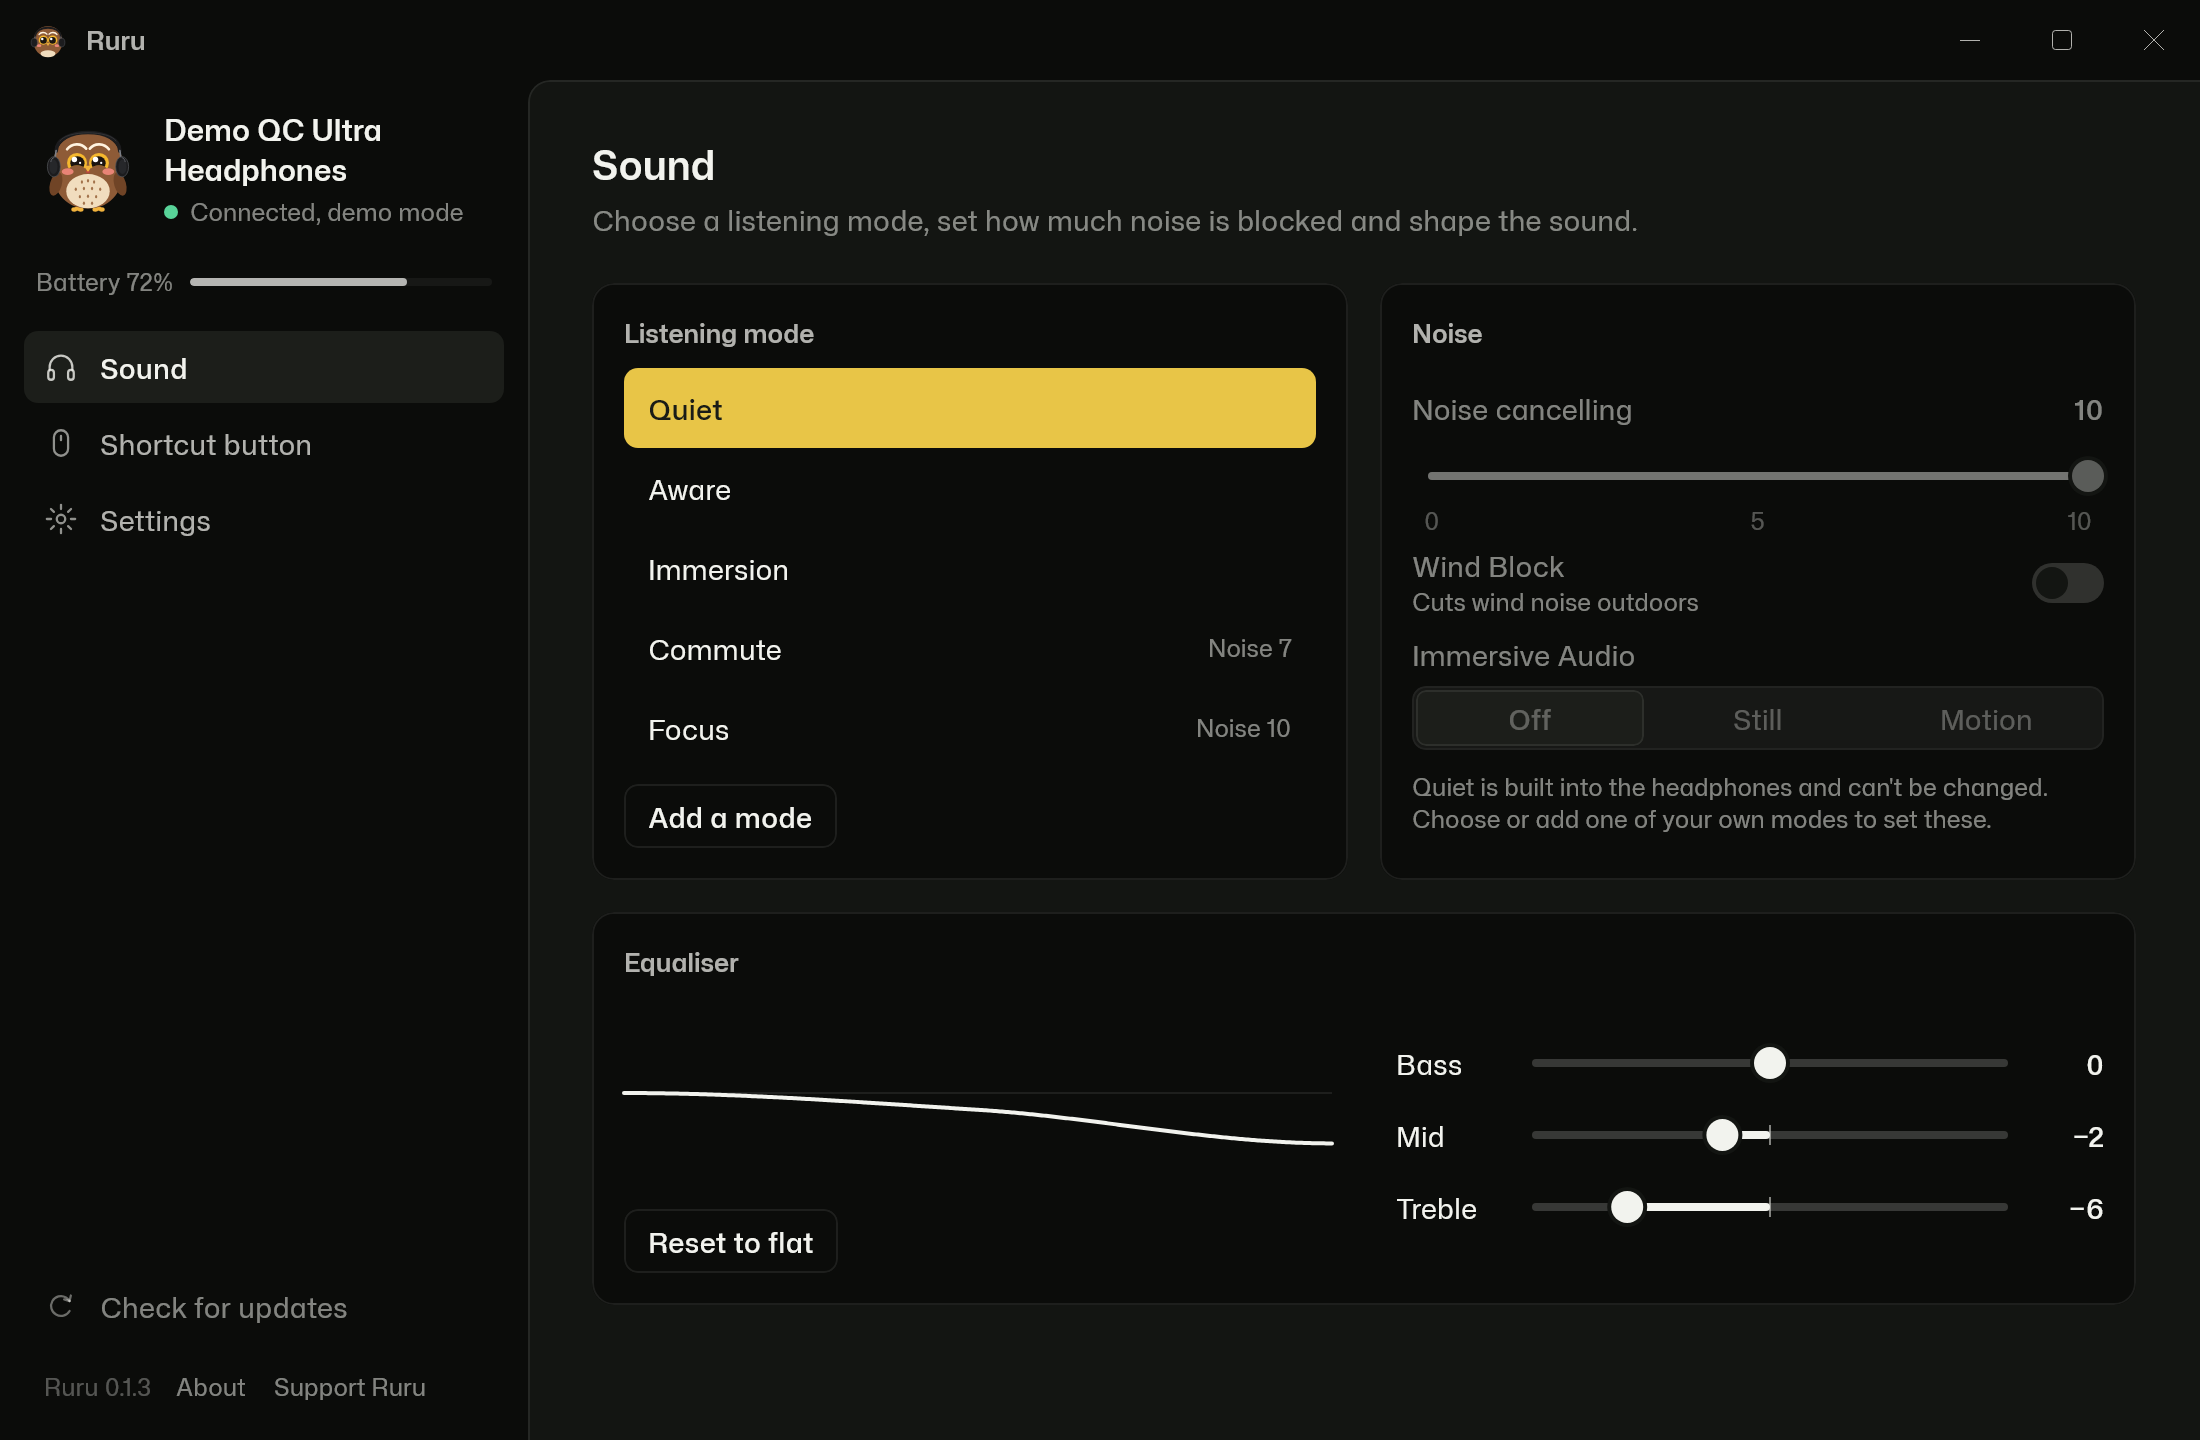
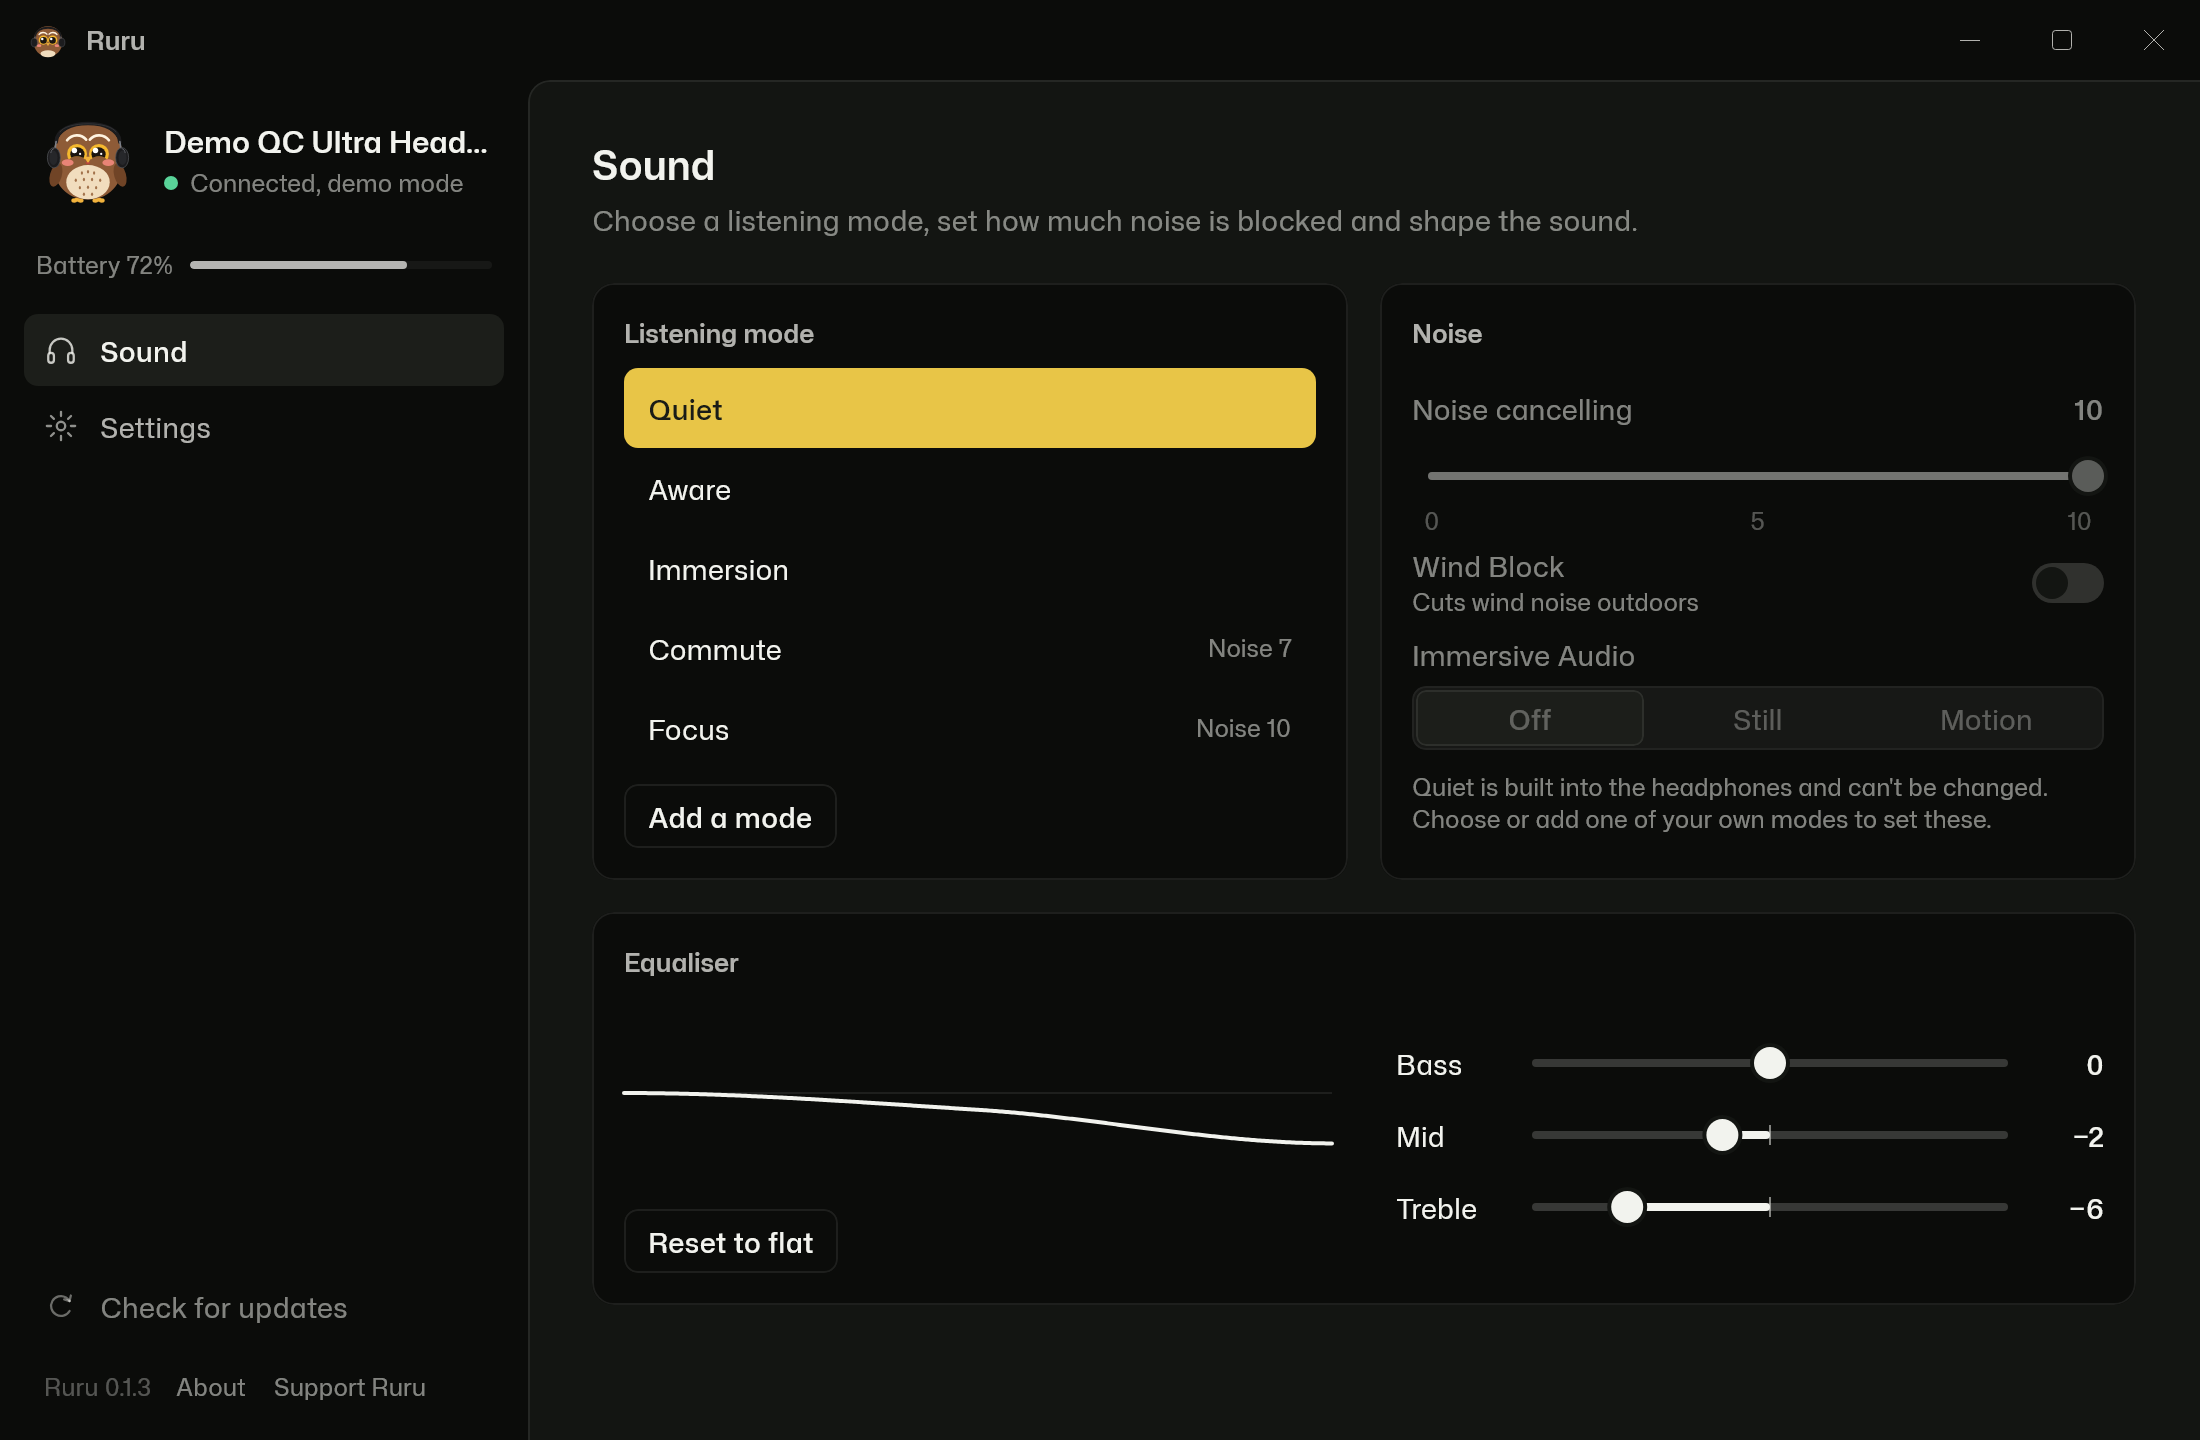
Desktop layout: two pages, a composed Settings page, one-line device name
Sound and Settings only; the shortcut button moves into Settings. Settings has a Headphones
panel on the left and Shortcut button plus This computer panels on the right. The sidebar
device name is one line with an ellipsis. The snapshot shows the Windows switches.

Changed region(s): [[0.0, 0.0625, 0.2164, 0.3125], [0.0309, 0.3438, 0.0927, 0.375]]

diff --git a/app/shared/src/commonMain/kotlin/io/github/langkurst/ruru/ui/Desk.kt b/app/shared/src/commonMain/kotlin/io/github/langkurst/ruru/ui/Desk.kt
@@ -124,8 +124,7 @@ internal fun DeskLayout(
     // The pages in the sidebar. With no headphones there is nothing to tune, so only what belongs to the app.
     val navPages = buildList {
         if (connected && hasSound(h)) add(DeskPage.Sound)
-        if (connected && hasShortcutChoices(h)) add(DeskPage.Shortcut)
-        if ((connected && hasHeadphoneSettings(h)) || extras.isNotEmpty()) add(DeskPage.Settings)
+        if ((connected && (hasHeadphoneSettings(h) || hasShortcutChoices(h))) || extras.isNotEmpty()) add(DeskPage.Settings)
     }
     val shown = when {
         requested == DeskPage.About -> DeskPage.About
@@ -140,7 +139,7 @@ internal fun DeskLayout(
             .fillMaxSize()
             .focusRequester(focus)
             .focusable()
-            // Ctrl+1, 2, 3 (Command on a Mac) open the pages in the sidebar, top to bottom.
+            // Ctrl+1 and 2 (Command on a Mac) open the pages in the sidebar, top to bottom.
             .onPreviewKeyEvent { e ->
                 if (e.type != KeyEventType.KeyDown || !(e.isCtrlPressed || e.isMetaPressed)) return@onPreviewKeyEvent false
                 val index = when (e.key) {
@@ -177,7 +176,6 @@ internal fun DeskLayout(
             ) { page ->
                 when (page) {
                     DeskPage.Sound -> SoundPage(state, controller)
-                    DeskPage.Shortcut -> ShortcutPage(state, controller)
                     DeskPage.Settings -> SettingsPage(state, controller, extras)
                     DeskPage.About -> AboutPage(model, state, appVersion, updates, onCopyReport)
                     DeskPage.Status -> StatusPage(state, controller, model)
@@ -225,7 +223,8 @@ private fun Sidebar(
             OwlMark(52.dp)
             Spacer(Modifier.width(12.dp))
             Column(Modifier.weight(1f)) {
-                Txt(deviceName(state), t.device, c.ink, maxLines = 2)
+                val name = deviceName(state)
+                Txt(name, t.device, c.ink, Modifier.semantics { contentDescription = name }, maxLines = 1)
                 val line = statusLine(state, stringResource(Res.string.header_connected))
                 val dot = when (state.phase) {
                     Phase.Connected -> c.calm
@@ -245,12 +244,10 @@ private fun Sidebar(
             navPages.forEach { page ->
                 val label = when (page) {
                     DeskPage.Sound -> stringResource(Res.string.page_sound)
-                    DeskPage.Shortcut -> stringResource(Res.string.panel_shortcut)
                     else -> stringResource(Res.string.panel_settings)
                 }
                 val icon = when (page) {
                     DeskPage.Sound -> NavIcon.Headphones
-                    DeskPage.Shortcut -> NavIcon.Button
                     else -> NavIcon.Gear
                 }
                 NavRow(label, icon, selected = shown == page) { model.page.value = page }
@@ -344,7 +341,7 @@ private fun LinkText(text: String, onClick: () -> Unit) {
 
 // ---------------------------------------------------------------- navigation rows and icons
 
-private enum class NavIcon { Headphones, Button, Gear, Refresh }
+private enum class NavIcon { Headphones, Gear, Refresh }
 
 /** One 36dp sidebar row: a line icon and a label. [quiet] rows are actions rather than pages. */
 @Composable
@@ -397,10 +394,6 @@ private fun DrawScope.drawNavIcon(icon: NavIcon, colour: Color) {
             drawPath(band, colour, style = stroke)
             drawRoundRect(colour, Offset(3 * s, 14 * s), Size(4 * s, 7 * s), CornerRadius(2 * s), style = stroke)
             drawRoundRect(colour, Offset(17 * s, 14 * s), Size(4 * s, 7 * s), CornerRadius(2 * s), style = stroke)
-        }
-        NavIcon.Button -> {
-            drawRoundRect(colour, Offset(7 * s, 3 * s), Size(10 * s, 18 * s), CornerRadius(5 * s), style = stroke)
-            line(12f, 7f, 12f, 10f)
         }
         NavIcon.Gear -> {
             drawCircle(colour, 3 * s, Offset(12 * s, 12 * s), style = stroke)
@@ -464,19 +457,21 @@ private fun SoundPage(state: AppState, controller: HeadsetController) {
 }
 
 @Composable
-private fun ShortcutPage(state: AppState, controller: HeadsetController) {
-    PageFrame(stringResource(Res.string.panel_shortcut), stringResource(Res.string.page_shortcut_lead), state, controller) {
-        ShortcutPanel(state.headset, controller, Modifier.widthIn(max = 560.dp))
-    }
-}
-
-@Composable
 private fun SettingsPage(state: AppState, controller: HeadsetController, extras: List<PlatformSwitch>) {
     PageFrame(stringResource(Res.string.panel_settings), stringResource(Res.string.page_settings_lead), state, controller) {
-        val headphoneSettings = state.phase == Phase.Connected && hasHeadphoneSettings(state.headset)
-        Columns(listOf(headphoneSettings, extras.isNotEmpty()).count { it }) {
-            if (headphoneSettings) SettingsPanel(state.headset, controller, column())
-            if (extras.isNotEmpty()) Panel(stringResource(Res.string.panel_app), column()) { ExtraSwitches(extras) }
+        val h = state.headset
+        val connected = state.phase == Phase.Connected
+        val left = connected && hasHeadphoneSettings(h)
+        val right = (connected && hasShortcutChoices(h)) || extras.isNotEmpty()
+        // Two columns that keep their own heights: the left is one tall panel, the right stacks two short ones.
+        Row(Modifier.fillMaxWidth(), horizontalArrangement = Arrangement.spacedBy(16.dp), verticalAlignment = Alignment.Top) {
+            Column(Modifier.weight(1f)) {
+                if (left) SettingsPanel(h, controller, title = stringResource(Res.string.panel_headphones))
+            }
+            Column(Modifier.weight(1f), verticalArrangement = Arrangement.spacedBy(16.dp)) {
+                if (right && connected) ShortcutPanel(h, controller)
+                if (extras.isNotEmpty()) Panel(stringResource(Res.string.panel_computer)) { ExtraSwitches(extras) }
+            }
         }
     }
 }

diff --git a/app/desktop/src/main/kotlin/io/github/langkurst/ruru/desktop/Snapshot.kt b/app/desktop/src/main/kotlin/io/github/langkurst/ruru/desktop/Snapshot.kt
@@ -14,7 +14,9 @@ import io.github.langkurst.ruru.app.UpdateState
 import io.github.langkurst.ruru.app.Updates
 import io.github.langkurst.ruru.link.Words
 import io.github.langkurst.ruru.platform.windows.WindowsHeadsetPlatform
+import io.github.langkurst.ruru.ui.PlatformSwitch
 import io.github.langkurst.ruru.ui.RuruScreen
+import io.github.langkurst.ruru.ui.res.*
 import io.github.langkurst.ruru.ui.RuruTheme
 import kotlinx.coroutines.CoroutineScope
 import kotlinx.coroutines.Dispatchers
@@ -30,7 +32,7 @@ import kotlin.system.exitProcess
 
 /**
  * Renders the real app off-screen to a PNG, for checking the design and for README screenshots.
- * Usage: Snapshot <out.png> [--demo] [--light] [--width=<dp>] [--height=<dp>] [--scale=<n>] [--page=sound|shortcut|settings|about] [--frame] [--mode=<index>] [--none] [--update=checking|downloading|ready|installing|uptodate|failed]. Without --demo it connects to the
+ * Usage: Snapshot <out.png> [--demo] [--light] [--width=<dp>] [--height=<dp>] [--scale=<n>] [--page=sound|settings|about] [--frame] [--mode=<index>] [--none] [--update=checking|downloading|ready|installing|uptodate|failed]. Without --demo it connects to the
  * headphones like the app does and waits for them.
  */
 fun main(args: Array<String>) {
@@ -44,7 +46,6 @@ fun main(args: Array<String>) {
     val scale = args.firstOrNull { it.startsWith("--scale=") }?.substringAfter('=')?.toFloat() ?: 2f
     val frame = "--frame" in args
     val page = when (args.firstOrNull { it.startsWith("--page=") }?.substringAfter('=')) {
-        "shortcut" -> DeskPage.Shortcut
         "settings" -> DeskPage.Settings
         "about" -> DeskPage.About
         else -> DeskPage.Sound
@@ -73,10 +74,15 @@ fun main(args: Array<String>) {
         model.controller.value.setMode(index)
         runBlocking { withTimeoutOrNull(5_000) { model.controller.value.state.first { it.headset.currentModeIndex == index } } }
     }
+    // The switches a real Windows window offers, so the wide layout's "This computer" panel is drawn as people see it.
+    val extras = if (widthDp >= 880) listOf(
+        PlatformSwitch(Res.string.desktop_start_with_windows, Res.string.desktop_start_with_windows_hint, { false }, {}),
+        PlatformSwitch(Res.string.desktop_keep_in_tray, Res.string.desktop_keep_in_tray_hint, { true }, {}),
+    ) else emptyList()
     val chrome = WindowChromeState(if (frame) ChromeKind.Windows else ChromeKind.None) {}
     val scene = ImageComposeScene(width = (widthDp * scale).toInt(), height = (heightDp * scale).toInt(), density = Density(scale)) {
         RuruTheme(dark = dark) {
-            RuruWindowFrame(chrome) { RuruScreen(model, RURU_VERSION, updates = update?.let(::StillUpdates)) }
+            RuruWindowFrame(chrome) { RuruScreen(model, RURU_VERSION, extras = extras, updates = update?.let(::StillUpdates)) }
         }
     }
     var image = scene.render(0)

diff --git a/app/shared/src/commonMain/kotlin/io/github/langkurst/ruru/ui/RuruScreen.kt b/app/shared/src/commonMain/kotlin/io/github/langkurst/ruru/ui/RuruScreen.kt
@@ -546,7 +546,7 @@ internal fun hasHeadphoneSettings(h: HeadphoneState) = h.sidetone != null || h.m
     h.autoPlayPause != null || h.autoAnswer != null || h.voicePrompts != null
 
 @Composable
-internal fun SettingsPanel(h: HeadphoneState, controller: HeadsetController, modifier: Modifier = Modifier) {
+internal fun SettingsPanel(h: HeadphoneState, controller: HeadsetController, modifier: Modifier = Modifier, title: String = stringResource(Res.string.panel_settings)) {
     if (!hasHeadphoneSettings(h)) return
     val c = Ruru.colors
     val selfVoice = stringResource(Res.string.setting_self_voice)
@@ -554,7 +554,7 @@ internal fun SettingsPanel(h: HeadphoneState, controller: HeadsetController, mod
     val autoPlayPause = stringResource(Res.string.setting_auto_play_pause)
     val autoAnswer = stringResource(Res.string.setting_auto_answer)
     val voicePrompts = stringResource(Res.string.setting_voice_prompts)
-    Panel(stringResource(Res.string.panel_settings), modifier) {
+    Panel(title, modifier) {
         h.sidetone?.let { level ->
             Txt(selfVoice, Ruru.type.body, c.ink)
             Txt(stringResource(Res.string.setting_self_voice_hint), Ruru.type.small, c.ink3)

diff --git a/app/shared/src/desktopTest/kotlin/io/github/langkurst/ruru/ui/DeskLayoutTest.kt b/app/shared/src/desktopTest/kotlin/io/github/langkurst/ruru/ui/DeskLayoutTest.kt
@@ -58,12 +58,12 @@ class DeskLayoutTest {
     private fun ctrl(key: Key) = KeyEvent(key, KeyEventType.KeyDown, isCtrlPressed = true)
 
     @Test
-    fun `Ctrl 1, 2 and 3 open the pages in the sidebar and the model remembers the page`() = withScene(1100) { model, scene ->
+    fun `Ctrl 1 and 2 open Sound and Settings and the model remembers the page`() = withScene(1100) { model, scene ->
         assertEquals(DeskPage.Sound, model.page.value)
-        scene.sendKeyEvent(ctrl(Key.Three))
-        assertEquals(DeskPage.Settings, model.page.value, "Ctrl+3 is the third row, Settings")
         scene.sendKeyEvent(ctrl(Key.Two))
-        assertEquals(DeskPage.Shortcut, model.page.value, "Ctrl+2 is the second row, Shortcut button")
+        assertEquals(DeskPage.Settings, model.page.value, "Ctrl+2 is the second row, Settings")
+        scene.sendKeyEvent(ctrl(Key.Three))
+        assertEquals(DeskPage.Settings, model.page.value, "there is no third row")
         scene.sendKeyEvent(ctrl(Key.One))
         assertEquals(DeskPage.Sound, model.page.value)
     }

diff --git a/app/shared/src/commonMain/kotlin/io/github/langkurst/ruru/app/AppModel.kt b/app/shared/src/commonMain/kotlin/io/github/langkurst/ruru/app/AppModel.kt
@@ -6,7 +6,7 @@ import kotlinx.coroutines.flow.MutableStateFlow
 import kotlinx.coroutines.flow.StateFlow
 
 /** The pages of the wide desktop layout. [Status] is the "no headphones" screen and is never remembered. */
-enum class DeskPage { Sound, Shortcut, Settings, About, Status }
+enum class DeskPage { Sound, Settings, About, Status }
 
 /** Holds the running controller and swaps it when the user turns demo mode on or off. */
 class AppModel(
